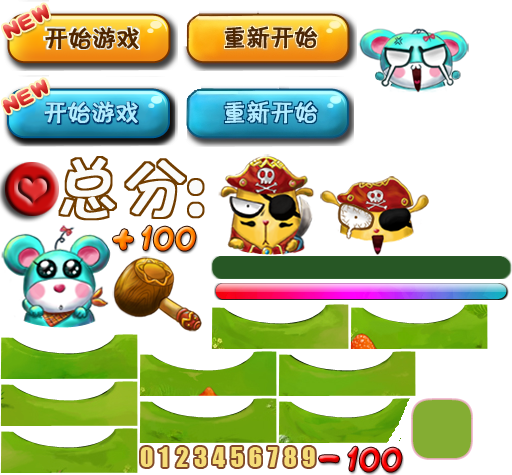
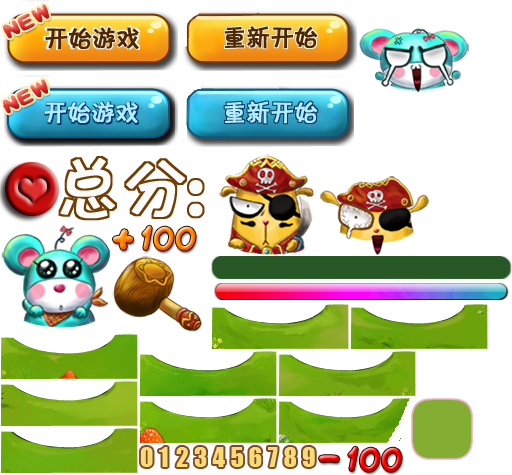
游戏提交

diff --git a/src/commonUI/item/MoleItem.js b/src/commonUI/item/MoleItem.js
@@ -2,29 +2,83 @@
 * name;
 */
 var MoleItem = (function () {
-    function MoleItem(x,y) {
+    function MoleItem(x, y) {
         this.render = new MoleItemUI();
         this.x = x;
         this.y = y;
-        this.render.imgMask.skin = "ui/mask_" + x + "_" + y + ".png";                 
-        
-        this.itemType = this.getRandomType();
+        this.init();
     }
 
-    MoleItem.prototype.initRenderPos = function(){
-        var mainMgr = UICenter.instance.getManager(UI.Main);
-        if(mainMgr == null || mainMgr.isOpened){
-            var data = mainMgr.getData(MainUIData);
-            data.getPosData(this.x,this.y);
+    MoleItem.prototype.init = function () {
+        this.render.imgMask.skin = "ui/mask_" + this.x + "_" + this.y + ".png";
+        this.initRenderPos();
+
+        this.itemType = this.getRandomType();
+        this.isHit = false;
+        this.isUping = true;
+
+        this.render.imgScoreNum.visible = this.isHit;
+        this.render.imgNormal.visible = !this.isHit;
+        this.render.imgHit.visible = this.isHit;
+        this.render.imgNormal.skin = "ui/mouse_normal_" + this.itemType + ".png";
+        this.render.imgHit.skin = "ui/mouse_hit_" + this.itemType + ".png";
+        this.render.imgScoreNum.skin = "ui/score_" + this.itemType + ".png";
+        this.render.imgNormal.y = MoleItem.MAX_SHRINK;
+
+        this.render.on(Laya.Event.CLICK, this, this.onClick);
+    };
+
+    MoleItem.prototype.onClick = function () {
+        this.isHit = true;
+        this.isUping = false;
+        this.render.imgNormal.visible = !this.isHit;
+        this.render.imgHit.visible = this.isHit;
+
+        Laya.Tween.clearAll(this.render.imgNormal);
+        Laya.Tween.to(this.render.imgHit, { y: MoleItem.MAX_SHRINK }, 500, Laya.Ease.backIn,
+            Laya.Handler.create(this, this.onActionOver));
+    };
+
+    MoleItem.prototype.onActionOver = function () {
+        //派发完成事件
+        var addScoreNum = 0;
+        if (this.isHit) {
+            if (this.itemType == MoleItem.TYPE_ENEMY) {
+                addScoreNum = 100;
+            }
+            else {
+                addScoreNum = -100;
+            }
         }
-        this.render.pos();
+
+        if (this.callBack != null) {
+            this.callBack.call(this,addScoreNum, this.x, this.y);
+        }
+        laya.utils.Tween.clearAll(this.render);
+        if (this.render != null) {
+            if (this.render.parent != null) {
+                this.render.parent.removeChild(this.render);
+            }            
+        }
+    };
+
+    MoleItem.prototype.initRenderPos = function () {
+        var mainMgr = UICenter.instance.getManager(UI.Main);
+        if (mainMgr == null || mainMgr.isOpened) {
+            var data = mainMgr.getData(MainUIData);
+            var view = mainMgr.getView(MainUIView);
+            view.ui.addChild(this.render);
+            var str = data.getPosData(this.x, this.y);            
+            var posAry = str.split(",");
+        }
+        this.render.pos(parseInt(posAry[0]), parseInt(posAry[1]));
     };
 
     /**
      * 获取随机类型
      */
-    MoleItem.prototype.getRandomType = function(){
-        return Math.random() > 0.5 ? MoleItem.TYPE_ENEMY : MoleItem.TYPE_FRIEND;
+    MoleItem.prototype.getRandomType = function () {
+        return Math.random() > 0.3 ? MoleItem.TYPE_ENEMY : MoleItem.TYPE_FRIEND;
     }
 
     /**
@@ -36,9 +90,23 @@ var MoleItem = (function () {
      */
     MoleItem.TYPE_ENEMY = 1;
 
-    MoleItem.prototype.show = function(){
-        //
-        this.itemType = this.getRandomType();        
+    /** 
+     * 地鼠最大y轴坐标
+    */
+    MoleItem.MAX_SHRINK = 10;
+
+    MoleItem.prototype.show = function (callBack) {
+        this.callBack = callBack;
+        Laya.Tween.to(this.render.imgNormal, { y: 0 }, 500, Laya.Ease.backOut, Laya.Handler.create(this, this.stay));
+    };
+
+    MoleItem.prototype.stay = function () {
+        Laya.timer.once(2000, this, this.hide);
+    };
+
+    MoleItem.prototype.hide = function () {
+        Laya.Tween.to(this.render.imgNormal, { y: MoleItem.MAX_SHRINK }, 500,
+            Laya.Ease.backIn, Laya.Handler.create(this, this.onActionOver));
     };
     return MoleItem;
 }());

diff --git a/src/commonUI/main/MainUIControl.js b/src/commonUI/main/MainUIControl.js
@@ -7,10 +7,10 @@ var MainUIControl = (function (_super) {
         /** 
          * 一局游戏时间
         */
-        MainUIControl.MAX_TIME = 2;
+        MainUIControl.MAX_TIME = 20;
     }
     Laya.class(MainUIControl, "MainUIControl", _super);
-    
+
     MainUIControl.prototype.onShow = function () {
         var openParam = this._dataCenter.getOpenParam();
         var view = this._viewCenter.getView(MainUIView);
@@ -18,6 +18,7 @@ var MainUIControl = (function (_super) {
             console.assert(true, "主界面UI打开参数或界面为空");
             return;
         }
+        this.scoreControl = new ScoreControler(view.ui.viewScore);
         if (openParam.isStartingGame) {
             openParam.isStartingGame = false;
             this.startGame();
@@ -26,8 +27,10 @@ var MainUIControl = (function (_super) {
 
     MainUIControl.prototype.onOpenAgain = function () {
         var openParam = this._dataCenter.getOpenParam();
+        var data = this._dataCenter.getData(MainUIData);        
         if (openParam.isStartingGame) {
             openParam.isStartingGame = false;
+            data.resetScore();
             this.startGame();
         }
     };
@@ -48,9 +51,15 @@ var MainUIControl = (function (_super) {
         view.ui.addChild(this.hammer);
         this.hammer.start();
 
+        this.stateDic = new Laya.Dictionary();
+        for (var x = 0; x < 3; x++) {
+            for (var y = 0; y < 3; y++) {
+                this.stateDic.set(x + "_" + y, false);
+            }
+        }
         view.ui.progressTime.value = 1;
         Laya.timer.loop(1000, this, this.onTimer);
-        Laya.timer.loop(2000,this,this.randomMoleShow);
+        Laya.timer.loop(2000, this, this.randomMoleShow);
     };
 
     /**
@@ -59,8 +68,27 @@ var MainUIControl = (function (_super) {
      *  1.最大同时出现个数3个
      *  2.出现的地鼠随机为减分地鼠  或  加分地鼠
      */
-    MainUIControl.prototype.randomMoleShow = function(){
+    MainUIControl.prototype.randomMoleShow = function () {        
+        for (var i = 0; i < 3; i++) {
+            var x = Math.floor(Math.random() * 3);
+            var y = Math.floor(Math.random() * 3);
+            var state = this.stateDic.get(x + "_" + y);
+            if (!state){
+                var mole = new MoleItem(x,y);
+                mole.show(this.onMoleActionOver);
+                this.stateDic.set(x + "_" + y,true);
+            }
+        }
+    };
 
+    MainUIControl.prototype.onMoleActionOver = function (score,x,y) {
+        var uiMgr = UICenter.instance.getManager(UI.Main);
+        var dataCls = uiMgr.getData(MainUIData);
+        var control = uiMgr.getControl(MainUIControl);
+        if (score != 0) {            
+            dataCls.updateScore(score);
+        }
+        control.stateDic.set(x + "_" + y,false);
     };
 
     /** 
@@ -86,8 +114,8 @@ var MainUIControl = (function (_super) {
      * 游戏结束
      */
     MainUIControl.prototype.onGameOver = function () {
-        console.log("游戏结束");
-        Laya.timer.clear(this, this.onTimer);
+        console.log("游戏结束");        
+        Laya.timer.clearAll(this);
         this.hammer.stop();
 
         UICenter.instance.openUI(UI.GameResult);

diff --git a/src/commonUI/item/ScoreControler.js b/src/commonUI/item/ScoreControler.js
@@ -5,33 +5,43 @@
 var ScoreControler = (function () {
     ScoreControler.MAX_ITEM = 10;
     function ScoreControler(scoreUI) {
-        if(scoreUI != null && scoreUI instanceof ScoreUI){
+        if (scoreUI != null && scoreUI instanceof ScoreUI) {
             this.ui = scoreUI;
         }
+        var mainUIMgr = UICenter.instance.getManager(UI.Main);
+        this.mainData = mainUIMgr.getData(MainUIData);
+        this.mainData.eventDispatcher.on(MainUIData.UPDATE_SCORE, this, this.updateScore);
     }
-    ScoreControler.prototype.updateScore = function(score){
-        if(this.ui == null){
+    ScoreControler.prototype.updateScore = function (score) {
+        if (this.ui == null) {
             return;
         }
-        var scoreAry = score.toString().spit("");
-        if(scoreAry <= 0){
+        var scoreAry = score.toString().split("");
+        if (scoreAry <= 0) {
+            for (var j = 0; j < scoreAry.length; j++) {
+                var item = this.ui.getChildByName("item" + (scoreAry.length - 1 - i));
+                if (item == null) {
+                    continue;
+                }
+                item.index = 0;
+            }
             return;
         }
-        for(var i = 0;i < scoreAry.length;i++){
-            var item = ui.getChildByName("item" + (scoreAry.length - 1 - i));
-            if(item == null){
+        for (var i = 0; i < scoreAry.length; i++) {
+            var item = this.ui.getChildByName("item" + (scoreAry.length - 1 - i));
+            if (item == null) {
                 continue;
             }
             item.index = parseInt(scoreAry[i]);
         }
     };
-    ScoreControler.prototype.clearScore = function(){
-        if(this.ui == null){
+    ScoreControler.prototype.clearScore = function () {
+        if (this.ui == null) {
             return;
         }
-        for(var i = 0;i < ScoreControler.MAX_ITEM;i++){
+        for (var i = 0; i < ScoreControler.MAX_ITEM; i++) {
             var item = ui.getChildByName("item" + i);
-            item.index = 0;            
+            item.index = 0;
         }
     };
     return ScoreControler;

diff --git a/src/ui/layaUI.max.all.js b/src/ui/layaUI.max.all.js
@@ -109,7 +109,7 @@ var MoleItemUI=(function(_super){
 
 		}
 
-		MoleItemUI.uiView={"type":"View","props":{"width":138,"height":113},"child":[{"type":"Image","props":{"y":0,"x":6,"var":"imgHit","skin":"ui/mouse_hit_0.png"}},{"type":"Image","props":{"y":-2,"x":1,"var":"imgNormal","skin":"ui/mouse_normal_0.png"}},{"type":"Image","props":{"y":53,"x":16,"var":"imgScoreNum","skin":"ui/score_1.png"}},{"type":"Image","props":{"y":67,"x":0,"var":"imgMask","skin":"ui/mask-01.png"}}]};
+		MoleItemUI.uiView={"type":"View","props":{"width":138,"height":113},"child":[{"type":"Image","props":{"y":0,"x":6,"var":"imgHit","skin":"ui/mouse_hit_0.png"}},{"type":"Image","props":{"y":0,"x":1,"var":"imgNormal","skin":"ui/mouse_normal_0.png"}},{"type":"Image","props":{"y":53,"x":16,"var":"imgScoreNum","skin":"ui/score_0.png"}},{"type":"Image","props":{"y":67,"x":0,"var":"imgMask","skin":"ui/mask_0_0.png"}}]};
 		return MoleItemUI;
 	})(View);
 var ScoreUI=(function(_super){

diff --git a/src/commonUI/GameRule/GameRuleUIControl.js b/src/commonUI/GameRule/GameRuleUIControl.js
@@ -7,7 +7,7 @@ var GameRuleUIControl = (function (_super) {
     }
     Laya.class(GameRuleUIControl,"GameRuleUIControl",_super);
     GameRuleUIControl.prototype.onShow = function(){
-        var view = this._viewCenter.getView(GameRuleUIView);
+        var view = this._viewCenter.getView(GameRuleUIView);        
         if(view == null){
             return;
         }                
@@ -15,9 +15,7 @@ var GameRuleUIControl = (function (_super) {
         //类型区分测试代码~
         // console.log(typeof view.ui);
         // console.log(view.constructor);
-        // console.log(view instanceof GameRuleUIView);       
-        this.scoreControler = new ScoreControler(view.ui.viewScore);
-        this.scoreControler.updateScore(100);
+        // console.log(view instanceof GameRuleUIView);              
     };
     GameRuleUIControl.prototype.onStartClick = function(){
         var view = this._viewCenter.getView(GameRuleUIView);

diff --git a/src/commonUI/core/UIControlCenter.js b/src/commonUI/core/UIControlCenter.js
@@ -73,7 +73,7 @@ var UIControlCenter = (function () {
         }
         this._controls.set(className,null);
     };
-    _proto.getControl = function(){
+    _proto.getControl = function(className){
         if(this._controls == null){
             return null;
         }
